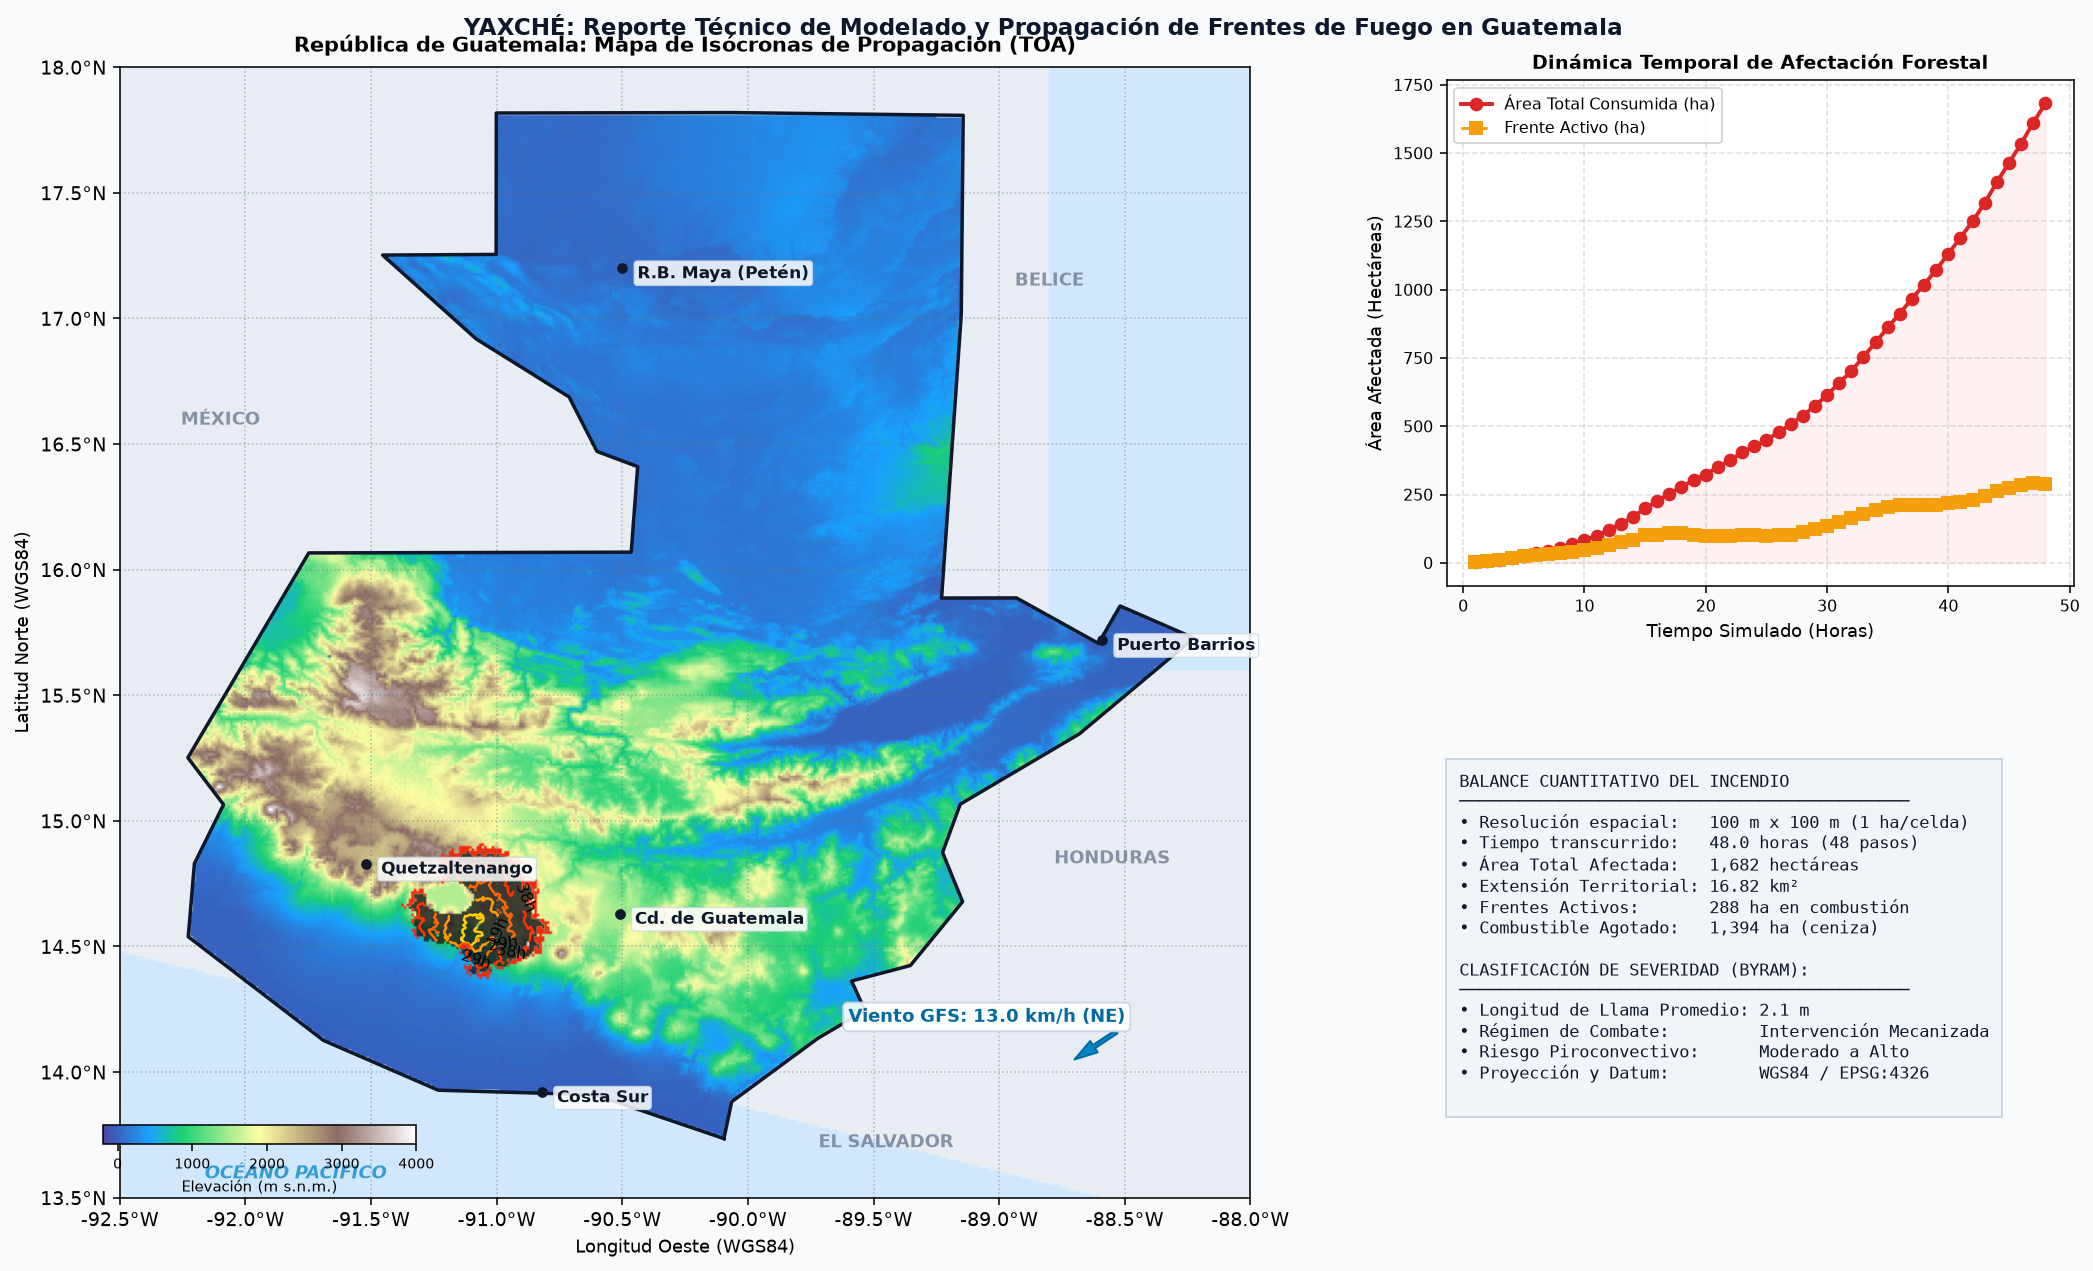
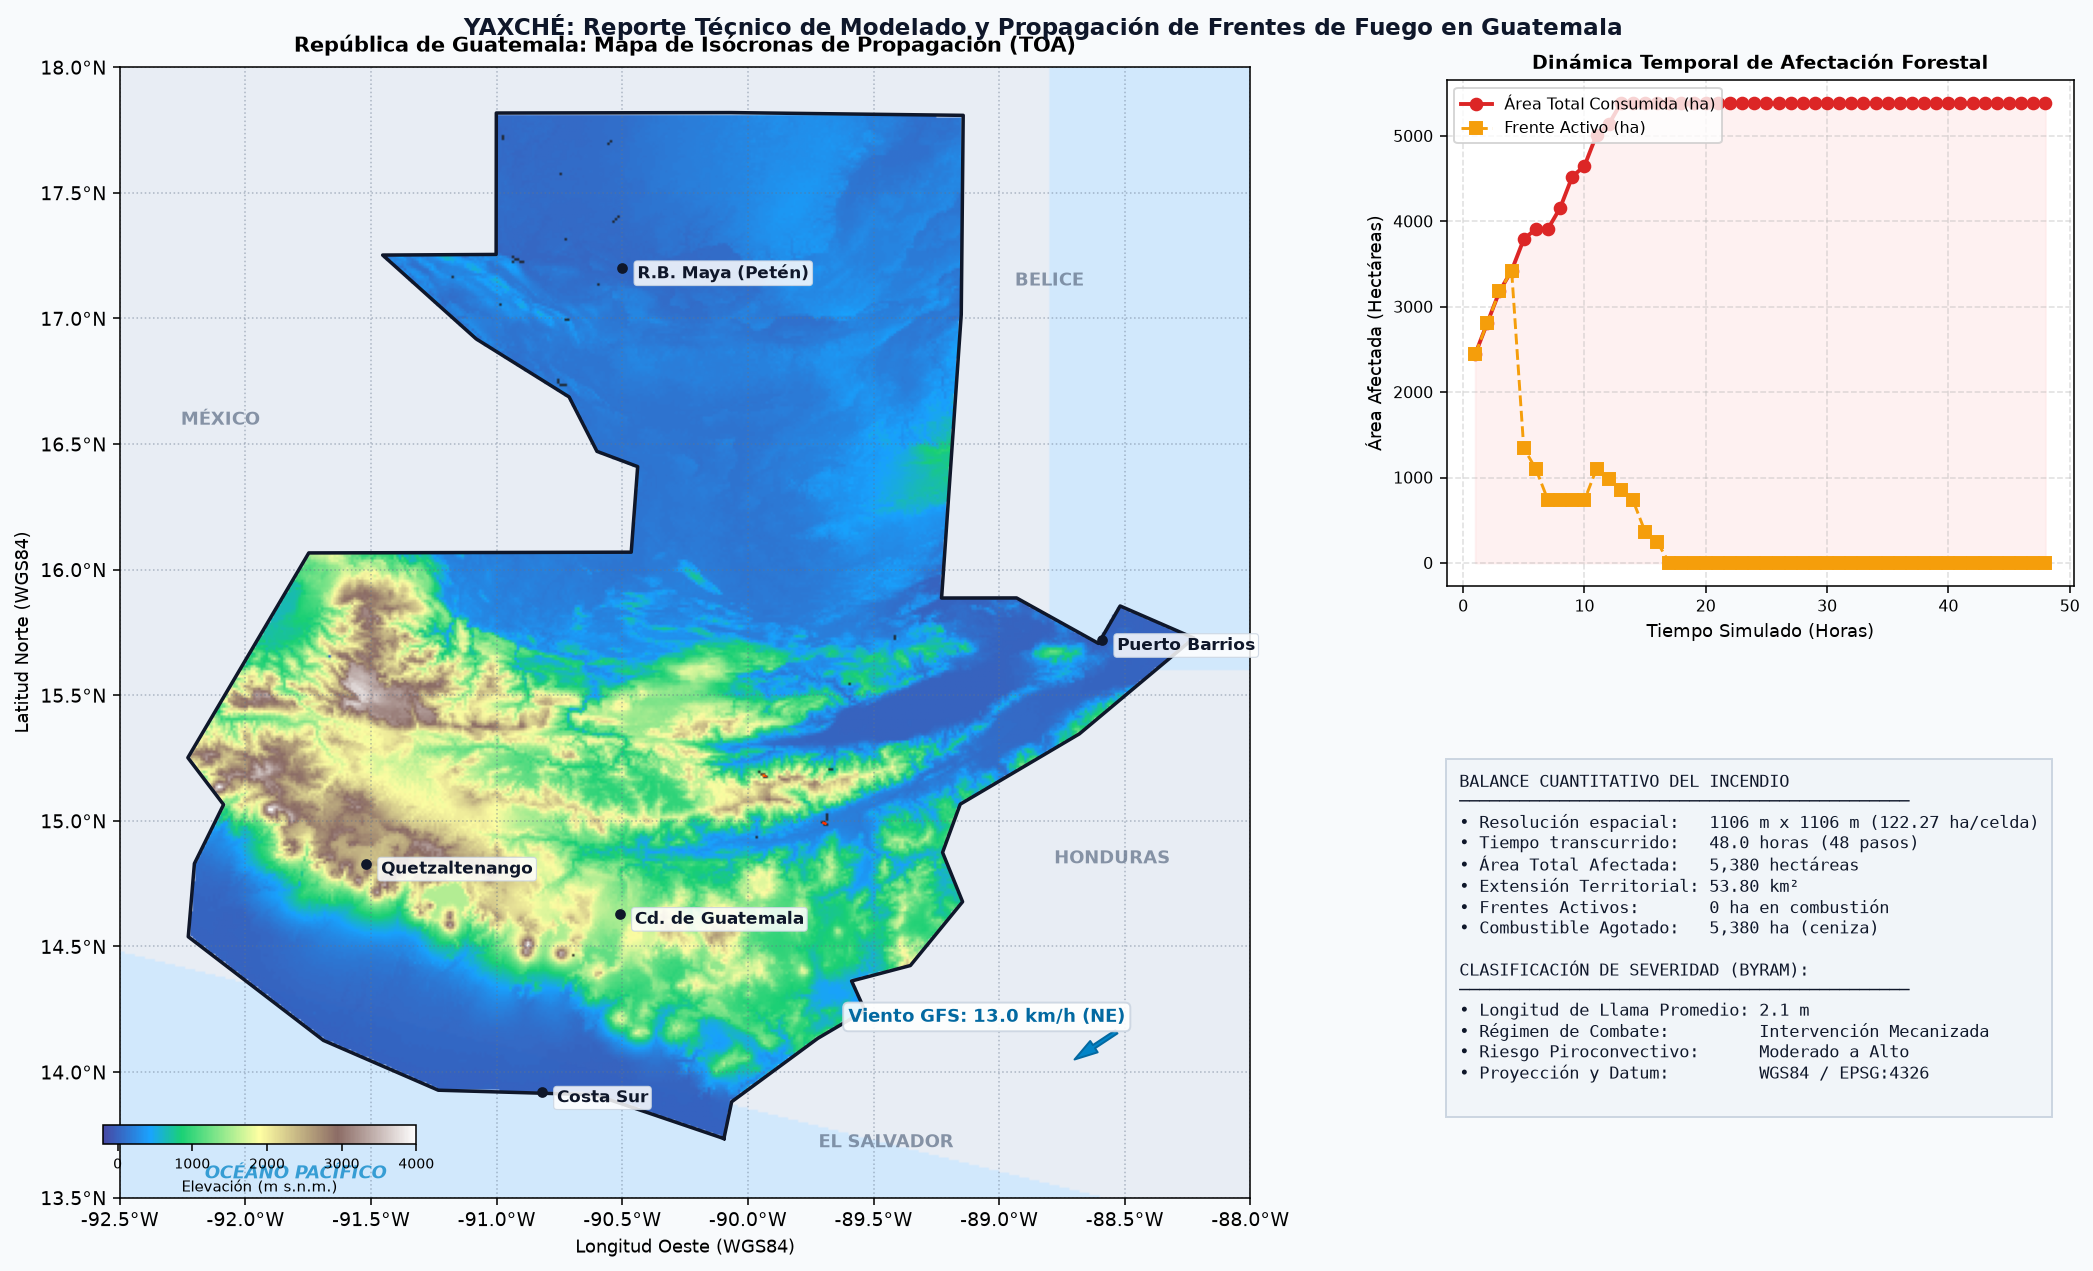
Calibrar fisica anisotropa a escala real, focos FIRMS 2024-04-18 y zooms tacticos

diff --git a/scripts/benchmark_kabre.py b/scripts/benchmark_kabre.py
@@ -6,6 +6,7 @@ siguiendo las convenciones de course_hpc.measure.
 """
 
 import argparse
+import csv
 import json
 import os
 import socket
@@ -52,13 +53,63 @@ def append_record(out_path: str, record: dict) -> None:
         f.write(json.dumps(record) + "\n")
 
 
+def load_firms_hotspots(
+    csv_path: str,
+    target_date: str = "2024-04-18",
+    min_frp: float = 55.0,
+    min_sep_deg: float = 0.18,
+    max_points: int = 24,
+) -> list[tuple[float, float, float, str]]:
+    """Carga focos reales de calor NASA FIRMS VIIRS filtrados y espaciados."""
+    if not os.path.exists(csv_path):
+        return [
+            (-90.50, 17.20, 80.0, "Peten RBM"),
+            (-91.10, 14.55, 75.0, "Cadena Volcanica"),
+        ]
+
+    candidates = []
+    with open(csv_path, newline="", encoding="utf-8") as f:
+        reader = csv.DictReader(f)
+        for row in reader:
+            if row.get("acq_date") != target_date:
+                continue
+            if row.get("confidence") != "high":
+                continue
+            frp = float(row.get("frp", 0.0))
+            if frp < min_frp:
+                continue
+            lon = float(row["longitude"])
+            lat = float(row["latitude"])
+            region = row.get("region_nombre", "Guatemala")
+            candidates.append((lon, lat, frp, region))
+
+    candidates.sort(key=lambda item: item[2], reverse=True)
+    selected: list[tuple[float, float, float, str]] = []
+    for lon, lat, frp, region in candidates:
+        if all(((lon - s[0]) ** 2 + (lat - s[1]) ** 2) ** 0.5 >= min_sep_deg for s in selected):
+            selected.append((lon, lat, frp, region))
+            if len(selected) >= max_points:
+                break
+    return selected
+
+
 def prepare_state_init(terrain: TerrainGrid) -> np.ndarray:
     state = np.zeros((terrain.rows, terrain.cols), dtype=np.int32)
-    # Focos de ignicion en Peten (RBM) y Cadena Volcanica / Altiplano
-    for lon, lat in [(-90.50, 17.20), (-91.10, 14.55)]:
+    csv_path = os.path.abspath(
+        os.path.join(os.path.dirname(__file__), "..", "data", "raw", "nasa_firms_viirs_guatemala_2024.csv")
+    )
+    hotspots = load_firms_hotspots(csv_path)
+    ignited = 0
+    for lon, lat, _frp, _region in hotspots:
         r, c = terrain.coord_to_indices(lon, lat)
         if terrain.mask_guatemala[r, c] and terrain.fuel[r, c] > 0.08:
             state[r, c] = STATE_BURNING
+            ignited += 1
+    if ignited == 0:
+        for lon, lat in [(-90.50, 17.20), (-91.10, 14.55)]:
+            r, c = terrain.coord_to_indices(lon, lat)
+            if terrain.mask_guatemala[r, c] and terrain.fuel[r, c] > 0.08:
+                state[r, c] = STATE_BURNING
     return state
 
 
@@ -216,23 +267,61 @@ def run_gpu_benchmarks(
         })
         print(f"   -> {mc_runs} replicas completadas en {mc_total_s:.2f} s ({mc_total_s/mc_runs*1e3:.1f} ms/replica)")
 
-        # Guardar mapa probabilistico de riesgo
+        # Guardar mapa probabilistico de riesgo (Nacional + Zooms Tacticos)
         os.makedirs(os.path.dirname(os.path.abspath(out_fig)), exist_ok=True)
-        fig, ax = plt.subplots(figsize=(10, 9), dpi=160, facecolor="#F8FAFC")
+        fig = plt.figure(figsize=(14, 9), dpi=160, facecolor="#F8FAFC")
+        gs = fig.add_gridspec(2, 2, width_ratios=[1.35, 1.0], wspace=0.22, hspace=0.26)
+        ax_nat = fig.add_subplot(gs[:, 0])
+        ax_peten = fig.add_subplot(gs[0, 1])
+        ax_south = fig.add_subplot(gs[1, 1])
+
         extent = [terrain.LON_MIN, terrain.LON_MAX, terrain.LAT_MIN, terrain.LAT_MAX]
         topo = np.copy(terrain.elevation)
         topo[~terrain.mask_guatemala] = np.nan
-        ax.imshow(topo, extent=extent, origin="upper", cmap="terrain", alpha=0.65)
         prob_disp = np.where(prob_map > 1.0, prob_map, np.nan)
-        im_p = ax.imshow(prob_disp, extent=extent, origin="upper", cmap="hot_r", vmin=0, vmax=100, alpha=0.85)
         border = terrain.border_coords
-        ax.plot([p[0] for p in border], [p[1] for p in border], color="#0F172A", linewidth=1.6)
-        cbar = plt.colorbar(im_p, ax=ax, fraction=0.036, pad=0.03)
+        bx = [p[0] for p in border]
+        by = [p[1] for p in border]
+
+        ha_per_cell = (terrain.cell_size / 100.0) ** 2
+        n_focos = int(np.sum(state_init == STATE_BURNING))
+        expected_ha = float(np.sum(prob_map / 100.0) * ha_per_cell)
+
+        im_p = None
+        for ax in (ax_nat, ax_peten, ax_south):
+            ax.imshow(topo, extent=extent, origin="upper", cmap="terrain", alpha=0.65)
+            im_p = ax.imshow(prob_disp, extent=extent, origin="upper", cmap="hot_r", vmin=0, vmax=100, alpha=0.88)
+            ax.plot(bx, by, color="#0F172A", linewidth=1.4)
+            ax.set_aspect("equal")
+
+        ax_nat.set_title(
+            f"Guatemala Nacional ({terrain.rows}x{terrain.cols}, dx={terrain.cell_size:.0f} m)\n"
+            f"{n_focos} focos FIRMS 2024-04-18 | Riesgo Esperado: {expected_ha:,.0f} ha",
+            fontsize=10.5,
+            fontweight="bold",
+        )
+        ax_nat.set_xlabel("Longitud Oeste (WGS84)")
+        ax_nat.set_ylabel("Latitud Norte (WGS84)")
+
+        ax_peten.set_xlim(-91.2, -89.3)
+        ax_peten.set_ylim(16.5, 17.85)
+        ax_peten.set_title("Zoom Tactico: Peten / RBM", fontsize=10, fontweight="bold")
+        ax_peten.set_ylabel("Latitud Norte")
+
+        ax_south.set_xlim(-91.8, -89.2)
+        ax_south.set_ylim(14.1, 15.65)
+        ax_south.set_title("Zoom Tactico: Altiplano / Sierra de las Minas", fontsize=10, fontweight="bold")
+        ax_south.set_xlabel("Longitud Oeste")
+        ax_south.set_ylabel("Latitud Norte")
+
+        cbar = fig.colorbar(im_p, ax=[ax_nat, ax_peten, ax_south], fraction=0.025, pad=0.025)
         cbar.set_label("Probabilidad de Afectacion Monte Carlo (%)", fontsize=10)
-        ax.set_aspect("equal")
-        ax.set_title(f"YAXCHE: Mapa Probabilistico de Riesgo ({mc_runs} Replicas en {gpu_name})", fontsize=12, fontweight="bold")
-        ax.set_xlabel("Longitud Oeste (WGS84)")
-        ax.set_ylabel("Latitud Norte (WGS84)")
+        fig.suptitle(
+            f"YAXCHE: Mapa Probabilistico de Riesgo ({mc_runs} Replicas en {gpu_name})",
+            fontsize=13,
+            fontweight="bold",
+            y=0.98,
+        )
         plt.savefig(out_fig, bbox_inches="tight")
         plt.close()
         print(f"[OK] Mapa probabilistico guardado en: {out_fig}")

diff --git a/run_demo.py b/run_demo.py
@@ -4,6 +4,7 @@ YAXCHE - Script de Demostracion Estandar y Generacion de Reporte Cartografico
 Ejecutalo con: python3 run_demo.py
 """
 
+import csv
 import time
 import os
 from src.terrain import TerrainGrid
@@ -38,13 +39,33 @@ def main():
     print("3. Inicializando simulador...")
     sim = FireSimulation(terrain=terrain, wind=wind, step_duration_hours=1.0)
 
-    # Iniciar foco en Peten (Reserva de la Biosfera Maya: Lon -90.50, Lat 17.20)
-    # e ignicion secundaria en la Sierra Madre (Lon -91.10, Lat 14.55)
-    print("4. Iniciando focos de ignicion reales:")
-    print("   -> Foco 1: Reserva de la Biosfera Maya (Peten: 17.20°N, 90.50°W)")
-    print("   -> Foco 2: Cadena Volcanica / Sierra Madre (14.55°N, 91.10°W)")
-    sim.ignite_coord(lon=-89.0, lat=15.5)
-    sim.ignite_coord(lon=-91.10, lat=14.55)
+    firms_csv = "data/raw/nasa_firms_viirs_guatemala_2024.csv"
+    hotspots = []
+    if os.path.exists(firms_csv):
+        with open(firms_csv, newline="", encoding="utf-8") as f:
+            candidates = [
+                (float(r["longitude"]), float(r["latitude"]), float(r.get("frp", 0.0)), r.get("region_nombre", "Guatemala"))
+                for r in csv.DictReader(f)
+                if r.get("acq_date") == "2024-04-18" and r.get("confidence") == "high" and float(r.get("frp", 0.0)) >= 55.0
+            ]
+        candidates.sort(key=lambda item: item[2], reverse=True)
+        for lon, lat, frp, region in candidates:
+            if all(((lon - s[0]) ** 2 + (lat - s[1]) ** 2) ** 0.5 >= 0.18 for s in hotspots):
+                hotspots.append((lon, lat, frp, region))
+                if len(hotspots) >= 24:
+                    break
+    if not hotspots:
+        hotspots = [(-90.50, 17.20, 80.0, "Peten RBM"), (-91.10, 14.55, 75.0, "Cadena Volcanica")]
+
+    print(f"4. Iniciando {len(hotspots)} focos reales NASA FIRMS VIIRS (2024-04-18):")
+    ignited_count = 0
+    for lon, lat, frp, region in hotspots:
+        sim.ignite_coord(lon=lon, lat=lat)
+        ignited_count += 1
+        if ignited_count <= 5:
+            print(f"   -> {region}: ({lat:.2f} N, {lon:.2f} W) FRP={frp:.1f} MW")
+    if ignited_count > 5:
+        print(f"   -> ... y {ignited_count - 5} focos adicionales activos.")
 
     pasos = 48
     print(f"5. Ejecutando simulacion secuencial de {pasos} horas de propagacion...")

diff --git a/src/simulation.py b/src/simulation.py
@@ -80,7 +80,9 @@ class FireSimulation:
         """
         new_ignitions = []
         c_slope = 2.5
-        c_wind = 0.12
+        c_wind = 0.35
+        scale_factor = float(np.clip(100.0 / self.terrain.cell_size, 0.15, 1.0))
+        p_base = 0.18 * scale_factor
 
         # Recorrido de celdas ardiendo dentro de Guatemala
         for r in range(1, self.rows - 1):
@@ -111,8 +113,8 @@ class FireSimulation:
                             wind_dot = (w_u * dir_x + w_v * dir_y)
                             wind_factor = np.exp(c_wind * wind_dot)
 
-                            # Probabilidad estocastica de ignicion
-                            prob = 0.25 * fuel * slope_factor * wind_factor
+                            # Probabilidad estocastica de ignicion (Rothermel direccional)
+                            prob = p_base * fuel * slope_factor * wind_factor
                             prob = np.clip(prob, 0.0, 0.95)
 
                             if np.random.rand() < prob:
@@ -137,9 +139,10 @@ class FireSimulation:
         self.current_step += 1
         self.simulated_hours = next_time_hours
 
-        # Metricas estandar en Hectareas (1 celda = 1 hectarea)
-        burned_ha = int(np.sum(self.state == STATE_BURNED))
-        active_ha = int(np.sum(self.state == STATE_BURNING))
+        # Metricas estandar en Hectareas reales segun resolucion de la celda
+        ha_per_cell = (self.terrain.cell_size / 100.0) ** 2
+        burned_ha = int(round(int(np.sum(self.state == STATE_BURNED)) * ha_per_cell))
+        active_ha = int(round(int(np.sum(self.state == STATE_BURNING)) * ha_per_cell))
         total_affected_ha = burned_ha + active_ha
 
         return {

diff --git a/src/visualization.py b/src/visualization.py
@@ -180,15 +180,16 @@ def plot_scientific_fire_report(
     ax_stats = fig.add_axes([0.68, 0.08, 0.28, 0.39], facecolor="white")
     ax_stats.axis("off")
 
-    total_burned_ha = int(np.sum(sim.state == STATE_BURNED))
-    active_front_ha = int(np.sum(sim.state == STATE_BURNING))
+    ha_per_cell = (sim.terrain.cell_size / 100.0) ** 2
+    total_burned_ha = int(round(int(np.sum(sim.state == STATE_BURNED)) * ha_per_cell))
+    active_front_ha = int(round(int(np.sum(sim.state == STATE_BURNING)) * ha_per_cell))
     total_affected_ha = total_burned_ha + active_front_ha
     total_km2 = total_affected_ha / 100.0
 
     stats_text = (
         "BALANCE CUANTITATIVO DEL INCENDIO\n"
         "─────────────────────────────────────────────\n"
-        f"• Resolución espacial:   100 m x 100 m (1 ha/celda)\n"
+        f"• Resolución espacial:   {sim.terrain.cell_size:.0f} m x {sim.terrain.cell_size:.0f} m ({ha_per_cell:.2f} ha/celda)\n"
         f"• Tiempo transcurrido:   {sim.simulated_hours:.1f} horas ({sim.current_step} pasos)\n"
         f"• Área Total Afectada:   {total_affected_ha:,} hectáreas\n"
         f"• Extensión Territorial: {total_km2:.2f} km²\n"

diff --git a/src/simulation_numba.py b/src/simulation_numba.py
@@ -49,7 +49,9 @@ def step_numba_parallel(
     """Ejecuta un paso temporal del automata celular en paralelo sobre filas (prange)."""
     rows, cols = state_in.shape
     c_slope = 2.5
-    c_wind = 0.12
+    c_wind = 0.35
+    scale_factor = min(1.0, max(0.15, 100.0 / cell_size))
+    p_base = 0.18 * scale_factor
     inv_sqrt2 = 0.7071067811865475
 
     # Vecindad de Moore: (dr, dc, dist_factor)
@@ -101,7 +103,7 @@ def step_numba_parallel(
                     dir_y = drs[k] * inv_d  # Eje Y invertido (fila 0 = norte)
                     wind_dot = wind_u[nr, nc] * dir_x + wind_v[nr, nc] * dir_y
 
-                    prob = 0.25 * f_target * math.exp(c_slope * dh_norm) * math.exp(c_wind * wind_dot)
+                    prob = p_base * f_target * math.exp(c_slope * dh_norm) * math.exp(c_wind * wind_dot)
                     if prob > 0.95:
                         prob = 0.95
                     elif prob < 0.0:

diff --git a/src/simulation_gpu.py b/src/simulation_gpu.py
@@ -120,7 +120,8 @@ void yaxche_fire_step(
             const float dir_y =  ((float)drs[k]) * inv_d;
             const float wind_dot = wind_u[nidx] * dir_x + wind_v[nidx] * dir_y;
 
-            float prob = 0.25f * f_target * expf(2.5f * dh_norm) * expf(0.12f * wind_dot);
+            const float scale_factor = fminf(1.0f, fmaxf(0.15f, 100.0f / cell_size));
+            float prob = (0.18f * scale_factor) * f_target * expf(2.5f * dh_norm) * expf(0.35f * wind_dot);
             prob = fminf(0.95f, fmaxf(0.0f, prob));
 
             if (rand_u01(seed, step_idx, r, c, k) < prob) {
